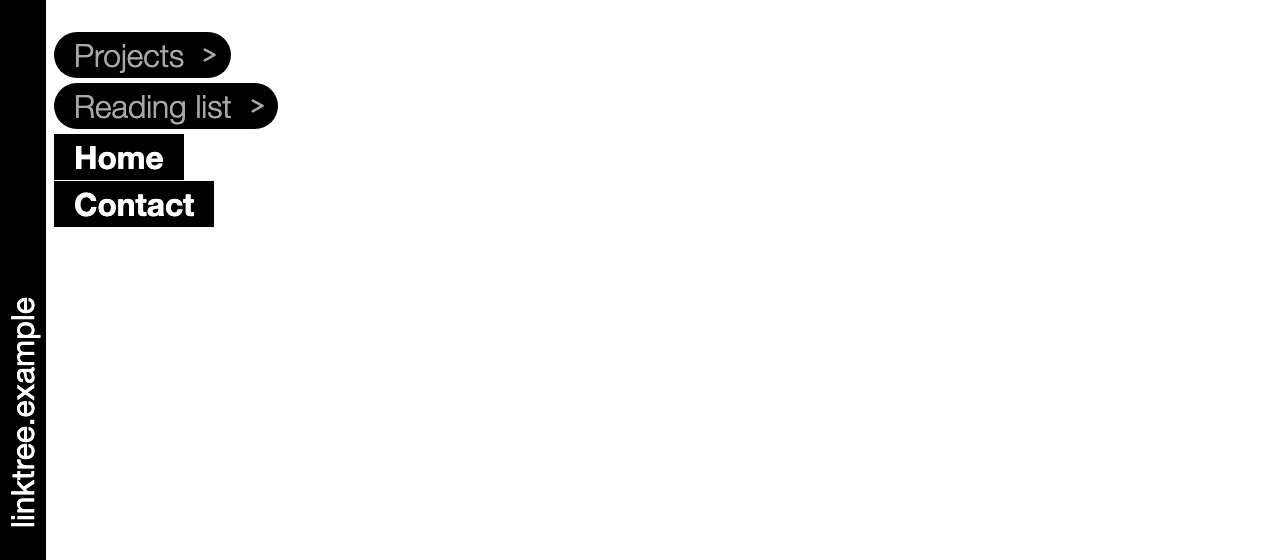
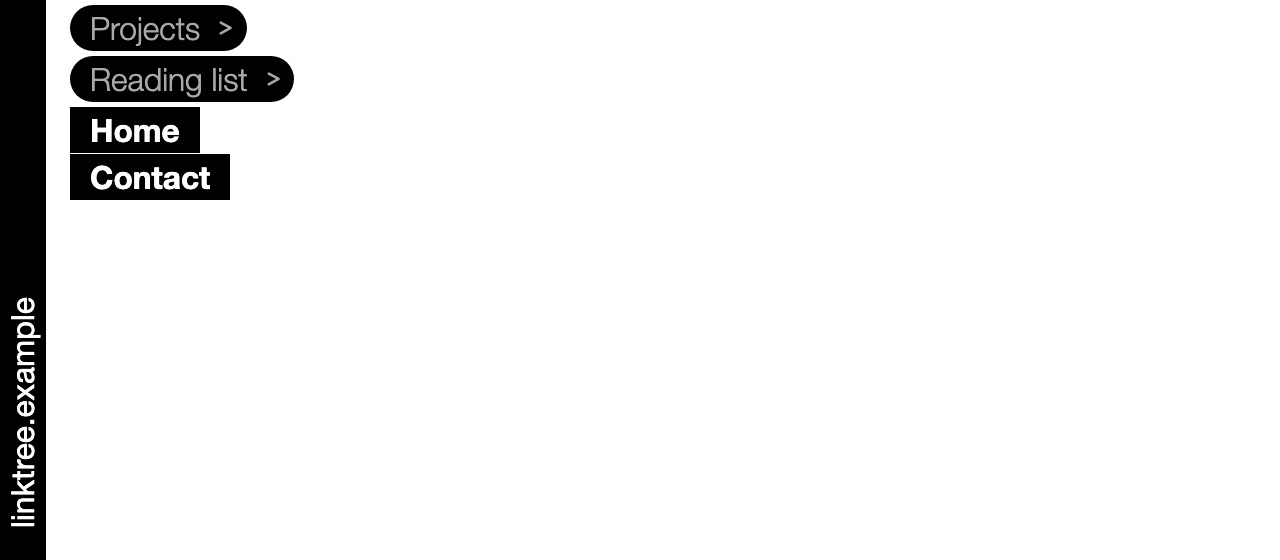
docs: short README, new screenshots (current layout, keyboard focus)

Changed region(s): [[0.0312, 0.0, 0.25, 0.425]]

diff --git a/README.md b/README.md
@@ -1,68 +1,46 @@
 # linktree
 
-Brutalist link pages with folders, eight designs and online editing. Static HTML, CSS and vanilla JS plus three small PHP scripts (`-/site.php`, `edit/save.php`, `edit/probe.php`). No build step, no framework.
+Brutalist link pages with folders, eight designs and online editing. Static HTML, CSS and vanilla JS plus three small PHP scripts. No build step, no framework. Styling and details target `vertical-heading`; the other designs follow later.
 
-| Closed | Opened (`/projects/archive/old-notes/`) |
-|---|---|
-| ![closed folders](docs/screenshots/closed.jpg) | ![opened folders](docs/screenshots/opened.jpg) |
+| Closed | Opened (`/projects/archive/old-notes/`) | Keyboard |
+|---|---|---|
+| ![closed folders](docs/screenshots/closed.jpg) | ![opened folders](docs/screenshots/opened.jpg) | ![keyboard focus](docs/screenshots/keyboard.jpg) |
 
 ## Deploy
 
-Apache 2.4 with PHP; the document root is `<repo>/public`.
+Apache 2.4 with PHP, document root `<repo>/public`.
 
 1. Copy `public/edit/.htaccess.example` to `public/edit/.htaccess`, set `AuthUserFile` to the absolute path of `public/edit/.htpasswd`.
-2. `htpasswd -c public/edit/.htpasswd <user>`, then open `/edit/` once and sign in. `public/edit/` must be writable by PHP.
-3. The first `/-/site.php` request copies `-/seeds/default.json` to `edit/site.json`; saves go there (previous: `site.bak.json`).
+2. `htpasswd -c public/edit/.htpasswd <user>`, open `/edit/` once and sign in. `public/edit/` must be writable by PHP.
+3. The first `/-/site.php` request seeds `edit/site.json` from `-/seeds/default.json`; saves keep `site.bak.json`.
 
-`site.json`, `site.bak.json`, `.htpasswd`, `.htaccess` in `public/edit/` are never committed.
+`site.json`, `site.bak.json`, `.htpasswd`, `.htaccess` in `public/edit/` are never committed. `main` deploys via Plesk Git.
 
 ## Data and paths
 
-`edit/site.json`: `design`, `mode` (`light`/`dark`), `numbers`, `caps` (`regular`/`versalien`), `font`, `layout` (`list`/`split`), `height` (30 to 70 px), `intensity` (10 to 100 %), `items`. A link is `{ name, url, slug }`, a folder `{ name, items }`, folders nest. Designs: `vertical-heading` (default), `giant-type`, `giant-numerals`, `bracket-terminal`, `headline-tiny-links`, `raw-listing`, `tracked-rows`, `plain-inverted`.
+`edit/site.json`: `design`, `mode`, `numbers`, `caps`, `font`, `layout` (`list`/`split`), `height` (30 to 70 px), `intensity` (10 to 100 %), `items`. A link is `{ name, url, slug }`, a folder `{ name, items }`, folders nest. Folder slugs are the lower-case names with `-` (`tbx.li` is `tbx-li`).
 
-- `/<folder>/<folder>/` shows the list with those folders open; `/<folder>/<link>/` also marks the link (split layout: loads it in the pane).
-- With `?open` (or `?o`) a link path (`/<link>/?open` from anywhere, or `/<folder>/<link>/?open`) redirects to the link; a folder path shows the opened list. Real paths like `/edit/` are left alone.
-- Folder slugs are the lower-case names with `-` (`tbx.li` is `tbx-li`).
+- `/<folder>/<link>/` shows the list with the folders open and the link marked.
+- `?open` (or `?o`) on a link path redirects to the link, from anywhere; on a folder path it shows the opened list.
 
 ## Keyboard
 
-Works in the list and in edit mode, except while a field, menu or edit button has focus.
-
-- Up/down move through the visible entries and wrap around; the first key after the mouse continues from the entry under the pointer.
-- Right opens a folder, or on an open one jumps to the first subfolder inside it (nothing if there is none); left closes an open folder, or on a closed one goes to the parent folder; Enter opens a link in a new tab or toggles a folder.
-- The focused link shows a band as tall as one item line, in the item colour, between the left rail (4 px clear) and the left edge of the outermost entries, whatever the nesting (the item gap: 1 px before a link, 4 px before a folder); a closed folder shows a 2 px line there, an open one a light `>` at one x left of the outermost items (`--focus-*`, `--rail-gap` in `tokens.css`).
-- The last input method wins: after a key the row icons and mouse-over highlight hide and the mark shows; moving or pressing the mouse reverses it. On devices with a mouse (`START_MARK.query` in `config.js`) the page loads in keyboard mode with the first entry, or the one the address names, marked; the first real mouse move or press hides the mark. Touch devices start in mouse mode.
-- The address bar follows the focus (a closed folder shows its parent), also on clicks; history is untouched.
+Up/down move and wrap; right opens a folder or jumps to its first subfolder; left closes it or goes to the parent; Enter opens a link in a new tab or toggles a folder. The mark is a band at links, a line at closed folders and a `>` at open ones; the address bar follows the focus. The last input wins: keys hide the row icons and hover highlight, the mouse brings them back. On mouse devices the page loads with the first entry (or the one the address names) marked.
 
 ## Editing
 
-Open `/edit/` once; the browser then edits inline (`/?edit=0` switches off). Visitors see no controls. Hover a line:
-
-- left: drag handle and pen (name, URL); right: `+` adds a link, the pill a folder after it (on an open folder's head: as its first item). They show after `--icon-delay` (0.2 s) at `--icon-opacity`, take no clicks until visible; on touch a tap beside an entry (gutters, the stretch after it) shows that row's icons, a tap elsewhere hides them.
-- hovering an add/edit icon shows it at full strength in the main colour (`--chip`, incl. the intensity setting).
-- the add icons of a main folder (with everything in it) stand at one x right of its longest open entry; a run of consecutive links outside any folder shares one column (a main folder ends the run).
-- grey dots change settings; the floppy icon shows while something is unsaved (Cmd/Ctrl+S saves). Light/dark is a per-browser view choice, never saved; the split divider drags per view.
-
-Auto start (`EDIT.autoProbe` in `js/config.js`, off): add the `<Files "probe.php">` block from `.htaccess.example` to the live `.htaccess`, set it `true`; browsers holding credentials then start editing, others get a silent 401.
+Open `/edit/` once; the browser then edits inline (`/?edit=0` switches off). Hover a line for the drag handle, pen and `+` icons; on touch, tap beside an entry. Grey dots change settings, the floppy icon saves (Cmd/Ctrl+S). Optional auto start: `EDIT.autoProbe` in `config.js`.
 
 ## Layout and commands
 
-    public/        index.html (list), go.html (redirect), edit/ (login, save, probe; PHP), -/ (everything else)
-    public/-/      css/ (tokens, base, edit, designs/), js/ (config, logic, render, edit, go), seeds/, site.php, manifest, app icons
-    tests/ docs/ tools/   unit tests, specs and plans, dev router
-    local/         git-ignored scratch data
+    public/      index.html, go.html, edit/ (login, save, probe), -/ (css, js, seeds, site.php, manifest, icons)
+    tests/ docs/ tools/    unit tests, specs and plans, dev router
 
-    php -S 0.0.0.0:8080 -t public tools/dev-router.php   # local server
-    npm test                                              # unit tests (node --test)
+    php -S 0.0.0.0:8080 -t public tools/dev-router.php
+    npm test
 
-Sizes: the pill height setting is the height at 1280 px width; it scales with the window between 1x and 1.5x (so pills and edit icons are smallest on phones) (`SCALE` in `config.js`). A folder is as wide as its direct items; a subfolder keeps its own width but reaches at least one radius past the right edge of its parent. Styling and details target `vertical-heading`; other designs follow later. Split pane only on viewports of at least 900 x 500 px (`SPLIT.query`), otherwise links open in a new tab.
-
-Pill form is `vertical-heading` (`PILL_DESIGNS`), all others are text form (`html[data-form]`). Everything but `edit/` lives in `/-/`, so no folder name you pick in the list can clash with a path (`slugify` never yields a lone `-`); `edit/` stays because it holds the login and your data. Change a value in one place: `tokens.css` first, then `config.js`. Bump `?v=N` on the CSS/JS links in `index.html` and `go.html` with every change (browsers cache for an hour).
+Everything except `edit/` lives in `/-/`, so no folder name from the list can clash with a path. Values: `tokens.css` first, then `config.js`. Bump `?v=N` on the CSS/JS links in `index.html` and `go.html` with every change. Pills scale with the window (`SCALE`), the pane needs 900 x 500 px (`SPLIT.query`).
 
 ## Status
 
-Checked in the browser: all eight designs, folder animation, folder and `?open` paths, inline editing, arrow-key navigation, 50 unit tests. Content is dummy. `main` deploys to l.msmr.co via Plesk Git.
-
-Not checked: the focus line in text-form designs and the split layout (its items clip it), the `>` in display mode (about 4 px beside the rail), edit mode in split/narrow/text-form, very long wrapped entries with the icon column, `.htaccess` rewrites on the live host.
-
-Known limits: no input validation (owner's decision), drag and drop is mouse-only, font list and color variants empty.
+Checked in the browser: `vertical-heading`, folders and animation, `?open` paths, inline editing, keyboard navigation; 51 unit tests. Not checked: other designs, edit mode in split/narrow, very long wrapped entries, `.htaccess` rewrites on the live host. No input validation (owner's decision).
